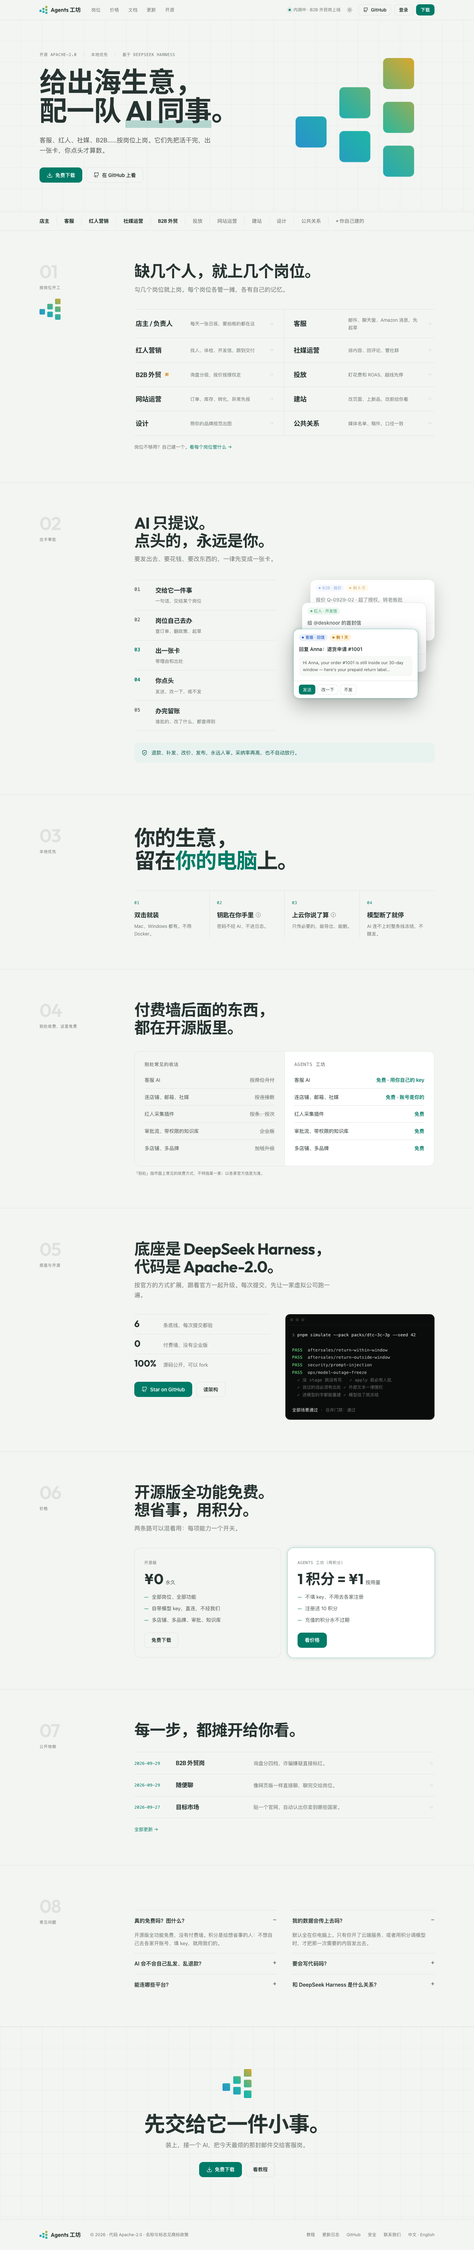
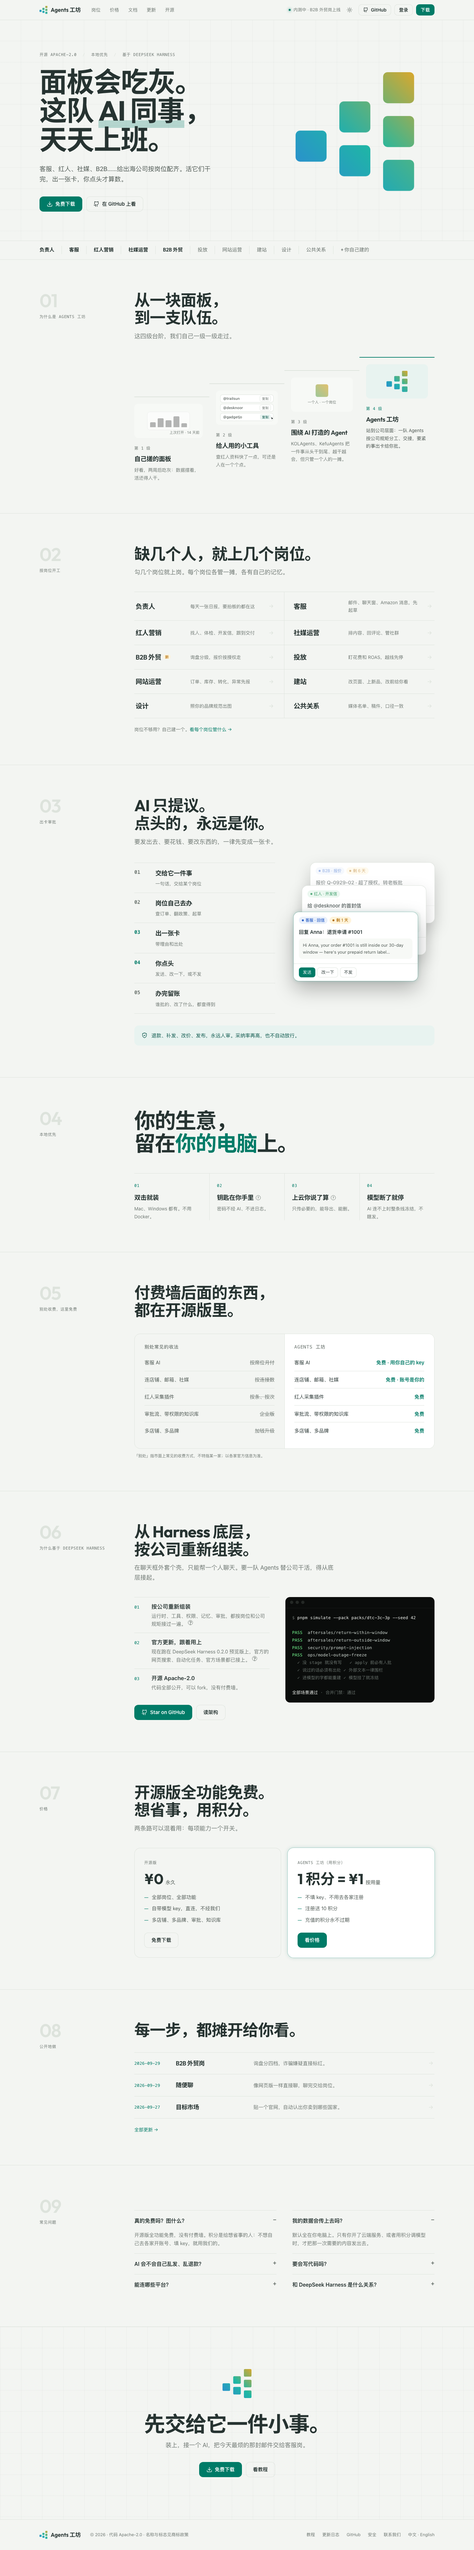
docs(design): WP193b 首页加「为什么」四级台阶、底座改写为为什么深入 Harness、首屏新标题、负责人改名 + 重出截图

diff --git a/docs/design/site/home-b.html b/docs/design/site/home-b.html
@@ -115,6 +115,38 @@ p{margin:0}
 @media (prefers-reduced-motion:reduce){.bm rect{animation:none!important;opacity:1!important;transform:none!important}}
 .sec-label .bm{display:block;margin-top:22px}
 
+/* ── 为什么：四级台阶（WP193b）：每级顶上一条踏步线，往右一级比一级高 ── */
+.bsteps{display:grid;grid-template-columns:repeat(4,minmax(0,1fr));gap:0;margin-top:48px;align-items:start}
+.bstep{padding:20px 20px 0 0;border-top:2px solid var(--line)}
+.bstep+.bstep{padding-left:20px}
+.bstep:nth-child(1){margin-top:120px}.bstep:nth-child(2){margin-top:80px}.bstep:nth-child(3){margin-top:40px}
+.bstep.sel{border-top-color:var(--brand)}
+.bstep.sel .mono{color:var(--brand)}
+.bstep h3{font-size:19px;font-weight:600;margin:6px 0 6px}
+.bstep p{font-size:14px;color:var(--muted)}
+.bstep.sel p{color:var(--body)}
+.reasons li{align-items:flex-start}
+.facts.reasons b{font:500 13px/1.6 var(--mono);color:var(--brand);min-width:36px}
+.reasons em{display:block;font-style:normal;font-weight:600;font-size:17px;color:var(--ink);margin-bottom:2px}
+/* 「为什么」台阶的小示意 */
+.ill{height:104px;border-radius:12px;background:var(--surface);display:grid;place-items:center;position:relative;overflow:hidden;margin-bottom:16px}
+.ill-dash .dash{width:62%;height:54px;display:flex;align-items:flex-end;gap:6px;padding:8px;border-radius:8px;background:var(--card);box-shadow:0 0 0 1px var(--line);filter:grayscale(1);opacity:.5}
+.ill-dash .dash i{flex:1;border-radius:3px 3px 0 0;background:var(--muted);display:block}
+.ill-dash .dust{position:absolute;bottom:8px;right:10px;font-size:11px;color:var(--muted)}
+.ill-tool{place-items:stretch;align-content:center;padding:0 14px;gap:6px}
+.trow{display:flex;align-items:center;justify-content:space-between;height:22px;padding:0 8px;border-radius:6px;background:var(--card);box-shadow:0 0 0 1px var(--line);font-size:11px;color:var(--muted);position:relative}
+.trow b{font-weight:500;color:var(--body)}
+.trow span{white-space:nowrap;font-size:10px;padding:0 6px;border-radius:4px;box-shadow:0 0 0 1px var(--line)}
+.trow span.hot{background:var(--tint);color:var(--brand-ink);box-shadow:none}
+.trow .cur{position:absolute;right:-4px;top:9px;width:14px;height:14px;fill:var(--ink);stroke:var(--card);stroke-width:1.5}
+.ill-agent{gap:6px;align-content:center}
+.ill-agent .solo{font-size:11px;color:var(--muted)}
+.ill-team{background:var(--tint)}
+/* 呼吸（= Agent 正在替你干活，docs/36 §12.2）：参数照抄 ws-bm-breathe，2.6s 一轮，0.94↔1、0.55↔1 */
+.bm-breathe rect{opacity:.55;animation:bm-breathe 2.6s ease-in-out infinite}
+@keyframes bm-breathe{0%,100%{opacity:.55;transform:scale(.94)}50%{opacity:1;transform:scale(1)}}
+@media (prefers-reduced-motion:reduce){.bm-breathe rect{animation:none!important;opacity:1!important;transform:none!important}}
+
 .strip{border-top:1px solid var(--line);position:relative;background:var(--paper)}
 .strip .wrap{display:flex;gap:0;overflow:hidden;height:56px;align-items:center}
 .strip span{font-family:var(--display);font-size:15px;color:var(--muted);padding:0 22px;border-left:1px solid var(--line);white-space:nowrap}
@@ -270,6 +302,13 @@ p{margin:0}
   .sec-label .bm{width:28px;height:28px;margin:0 0 0 auto}
   .h2{font-size:30px}
   .sub{font-size:15px}
+  .bsteps{grid-template-columns:1fr;margin-top:28px}
+  .bstep,.bstep+.bstep,.bstep:nth-child(n){margin-top:0;padding:16px 0;display:grid;grid-template-columns:92px 1fr;column-gap:14px}
+  .bstep .ill{grid-row:span 3;height:92px;margin:0}
+  .ill-tool{padding:0 8px}
+  .trow{height:18px;font-size:9px;padding:0 5px}
+  .trow b{overflow:hidden;text-overflow:ellipsis;white-space:nowrap;max-width:44px}
+  .trow .cur,.ill-agent .solo,.ill-dash .dust{display:none}
   .rolelist{grid-template-columns:1fr;margin-top:28px}
   .rolerow,.rolerow:nth-child(odd),.rolerow:nth-child(even){grid-template-columns:96px 1fr 16px;padding:14px 0;border-right:0}
   .rolerow h3{font-size:16px}
@@ -349,8 +388,8 @@ p{margin:0}
   <div class="wrap">
     <div>
       <div class="mono"><span>开源 Apache-2.0</span><span>本地优先</span><span>基于 DeepSeek Harness</span></div>
-      <h1>给出海生意，<br>配一队 <span class="u">AI 同事</span>。</h1>
-      <p class="lede">客服、红人、社媒、B2B……按岗位上岗。它们先把活干完，出一张卡，你点头才算数。</p>
+      <h1>面板会吃灰。<br>这队 <span class="u">AI 同事</span>，<br>天天上班。</h1>
+      <p class="lede">客服、红人、社媒、B2B……给出海公司按岗位配齐。活它们干完，出一张卡，你点头才算数。</p>
       <div class="cta-row">
         <a class="btn btn-primary" href="download.html"><svg class="ico"><use href="#i-download"/></svg>免费下载</a>
         <a class="btn btn-line" href="#"><svg class="ico"><use href="#i-github"/></svg>在 GitHub 上看</a>
@@ -361,17 +400,31 @@ p{margin:0}
     </div>
   </div>
   <div class="strip"><div class="wrap">
-    <span><b>店主</b></span><span><b>客服</b></span><span><b>红人营销</b></span><span><b>社媒运营</b></span><span><b>B2B 外贸</b></span><span>投放</span><span>网站运营</span><span>建站</span><span>设计</span><span>公共关系</span><span>+ 你自己建的</span>
+    <span><b>负责人</b></span><span><b>客服</b></span><span><b>红人营销</b></span><span><b>社媒运营</b></span><span><b>B2B 外贸</b></span><span>投放</span><span>网站运营</span><span>建站</span><span>设计</span><span>公共关系</span><span>+ 你自己建的</span>
   </div></div>
 </section>
 
+<section class="sec" id="s0"><div class="wrap">
+  <div class="sec-label"><div class="num">01</div><span class="mono">为什么是 Agents 工坊</span></div>
+  <div>
+    <h2 class="h2">从一块面板，<br>到一支队伍。</h2>
+    <p class="sub">这四级台阶，我们自己一级一级走过。</p>
+    <div class="bsteps">
+      <div class="bstep"><div class="ill ill-dash" aria-hidden="true"><div class="dash"><i style="height:40%"></i><i style="height:70%"></i><i style="height:55%"></i><i style="height:85%"></i><i style="height:30%"></i></div><span class="dust">上次打开 · 14 天前</span></div><span class="mono">第 1 级</span><h3>自己搓的面板</h3><p>好看，两周后吃灰：数据摆着，活还得人干。</p></div>
+      <div class="bstep"><div class="ill ill-tool" aria-hidden="true"><div class="trow"><b>@trailsun</b><span>复制</span></div><div class="trow"><b>@desknoor</b><span>复制</span></div><div class="trow"><b>@gadgetjo</b><span class="hot">复制</span><svg class="cur" viewBox="0 0 24 24"><path d="M5 3l14 8-6 2-3 6Z"/></svg></div></div><span class="mono">第 2 级</span><h3>给人用的小工具</h3><p>查红人资料快了一点，可还是人在一个个点。</p></div>
+      <div class="bstep"><div class="ill ill-agent" aria-hidden="true"><svg class="bm bm-breathe" width="40" height="40" viewBox="62 12 17 17" aria-hidden="true"><rect class="lead" x="62" y="12" width="17" height="17" rx="2.5" fill="url(#g6)" style="--i:0"/></svg><span class="solo">一个人 · 一个岗位</span></div><span class="mono">第 3 级</span><h3>围绕 AI 打造的 Agent</h3><p>KOLAgents、KefuAgents 把一件事从头干到尾、越干越会，但只管一个人的一摊。</p></div>
+      <div class="bstep sel"><div class="ill ill-team" aria-hidden="true"><svg class="bm bm-split" width="64" height="64" viewBox="14 12 65 65" aria-hidden="true"><rect x="14" y="44" width="17" height="17" rx="2.5" fill="url(#g1)" style="--i:0;--dx:48px;--dy:-32px"/><rect x="38" y="52" width="17" height="17" rx="2.5" fill="url(#g2)" style="--i:1;--dx:24px;--dy:-40px"/><rect x="38" y="28" width="17" height="17" rx="2.5" fill="url(#g3)" style="--i:2;--dx:24px;--dy:-16px"/><rect x="62" y="60" width="17" height="17" rx="2.5" fill="url(#g4)" style="--i:3;--dx:0px;--dy:-48px"/><rect x="62" y="36" width="17" height="17" rx="2.5" fill="url(#g5)" style="--i:4;--dx:0px;--dy:-24px"/><rect class="lead" x="62" y="12" width="17" height="17" rx="2.5" fill="url(#g6)" style="--i:5"/></svg></div><span class="mono">第 4 级</span><h3>Agents 工坊</h3><p>站到公司层面：一队 Agents 按公司规矩分工、交接，要紧的事出卡给你批。</p></div>
+    </div>
+  </div>
+</div></section>
+
 <section class="sec" id="s1"><div class="wrap">
-  <div class="sec-label"><div class="num">01</div><span class="mono">按岗位开工</span><svg class="bm bm-split " width="64" height="64" viewBox="14 12 65 65" aria-hidden="true"><rect x="14" y="44" width="17" height="17" rx="2.5" fill="url(#g1)" style="--i:0;--dx:48px;--dy:-32px"/><rect x="38" y="52" width="17" height="17" rx="2.5" fill="url(#g2)" style="--i:1;--dx:24px;--dy:-40px"/><rect x="38" y="28" width="17" height="17" rx="2.5" fill="url(#g3)" style="--i:2;--dx:24px;--dy:-16px"/><rect x="62" y="60" width="17" height="17" rx="2.5" fill="url(#g4)" style="--i:3;--dx:0px;--dy:-48px"/><rect x="62" y="36" width="17" height="17" rx="2.5" fill="url(#g5)" style="--i:4;--dx:0px;--dy:-24px"/><rect class="lead" x="62" y="12" width="17" height="17" rx="2.5" fill="url(#g6)" style="--i:5"/></svg></div>
+  <div class="sec-label"><div class="num">02</div><span class="mono">按岗位开工</span></div>
   <div>
     <h2 class="h2">缺几个人，就上几个岗位。</h2>
     <p class="sub">勾几个岗位就上岗。每个岗位各管一摊，各有自己的记忆。</p>
     <div class="rolelist">
-      <a class="rolerow" href="#"><h3>店主 / 负责人</h3><p>每天一张日报，要拍板的都在这</p><svg class="ico ar"><use href="#i-arrow"/></svg></a>
+      <a class="rolerow" href="#"><h3>负责人</h3><p>每天一张日报，要拍板的都在这</p><svg class="ico ar"><use href="#i-arrow"/></svg></a>
       <a class="rolerow" href="#"><h3>客服</h3><p>邮件、聊天窗、Amazon 消息，先起草</p><svg class="ico ar"><use href="#i-arrow"/></svg></a>
       <a class="rolerow" href="#"><h3>红人营销</h3><p>找人、体检、开发信，跟到交付</p><svg class="ico ar"><use href="#i-arrow"/></svg></a>
       <a class="rolerow" href="#"><h3>社媒运营</h3><p>排内容、回评论、管社群</p><svg class="ico ar"><use href="#i-arrow"/></svg></a>
@@ -387,7 +440,7 @@ p{margin:0}
 </div></section>
 
 <section class="sec" id="s2"><div class="wrap">
-  <div class="sec-label"><div class="num">02</div><span class="mono">出卡审批</span></div>
+  <div class="sec-label"><div class="num">03</div><span class="mono">出卡审批</span></div>
   <div>
     <h2 class="h2">AI 只提议。<br>点头的，永远是你。</h2>
     <p class="sub">要发出去、要花钱、要改东西的，一律先变成一张卡。</p>
@@ -410,7 +463,7 @@ p{margin:0}
 </div></section>
 
 <section class="sec" id="s3"><div class="wrap">
-  <div class="sec-label"><div class="num">03</div><span class="mono">本地优先</span></div>
+  <div class="sec-label"><div class="num">04</div><span class="mono">本地优先</span></div>
   <div>
     <p class="big-quote">你的生意，<br>留在<em>你的电脑</em>上。</p>
     <div class="four">
@@ -423,7 +476,7 @@ p{margin:0}
 </div></section>
 
 <section class="sec" id="s4"><div class="wrap">
-  <div class="sec-label"><div class="num">04</div><span class="mono">别处收费，这里免费</span></div>
+  <div class="sec-label"><div class="num">05</div><span class="mono">别处收费，这里免费</span></div>
   <div>
     <h2 class="h2">付费墙后面的东西，<br>都在开源版里。</h2>
     <div class="vs">
@@ -447,16 +500,16 @@ p{margin:0}
 </div></section>
 
 <section class="sec" id="s5"><div class="wrap">
-  <div class="sec-label"><div class="num">05</div><span class="mono">底座与开源</span></div>
+  <div class="sec-label"><div class="num">06</div><span class="mono">为什么基于 DeepSeek Harness</span></div>
   <div>
-    <h2 class="h2">底座是 DeepSeek Harness，<br>代码是 Apache-2.0。</h2>
-    <p class="sub">按官方的方式扩展，跟着官方一起升级。每次提交，先让一家虚拟公司跑一遍。</p>
+    <h2 class="h2">从 Harness 底层，<br>按公司重新组装。</h2>
+    <p class="sub">在聊天框外套个壳，只能帮一个人聊天。要一队 Agents 替公司干活，得从底层接起。</p>
     <div class="base-grid">
       <div>
-        <ul class="facts">
-          <li><b>6</b><span>条底线，每次提交都验</span></li>
-          <li><b>0</b><span>付费墙，没有企业版</span></li>
-          <li><b>100%</b><span>源码公开，可以 fork</span></li>
+        <ul class="facts reasons">
+          <li><b>01</b><span><em>按公司重新组装</em>运行时、工具、权限、记忆、审批，都按岗位和公司规矩接过一遍。<span class="hint" data-hint="每个岗位、每条职责有自己的上下文和记忆；谁能动什么按岗位授权；要发出去、要花钱的先进审批队列，办完留账。19 份接口契约都在仓库里。">?</span></span></li>
+          <li><b>02</b><span><em>官方更新，跟着用上</em>现在跑在 DeepSeek Harness 0.2.0 预览版上，官方的网页搜索、自动化任务、官方场景都已接上。<span class="hint" data-hint="版本锁在 0.2.0-rc.1。每次升级先过适配层测试和模拟回路，全绿才合并。">?</span></span></li>
+          <li><b>03</b><span><em>开源 Apache-2.0</em>代码全部公开，可以 fork，没有付费墙。</span></li>
         </ul>
         <div class="cta-row" style="margin-top:26px"><a class="btn btn-primary" href="#"><svg class="ico"><use href="#i-github"/></svg>Star on GitHub</a><a class="btn btn-line" href="#">读架构</a></div>
       </div>
@@ -477,7 +530,7 @@ p{margin:0}
 </div></section>
 
 <section class="sec" id="s6"><div class="wrap">
-  <div class="sec-label"><div class="num">06</div><span class="mono">价格</span></div>
+  <div class="sec-label"><div class="num">07</div><span class="mono">价格</span></div>
   <div>
     <h2 class="h2">开源版全功能免费。<br>想省事，用积分。</h2>
     <p class="sub">两条路可以混着用：每项能力一个开关。</p>
@@ -489,7 +542,7 @@ p{margin:0}
 </div></section>
 
 <section class="sec" id="s7"><div class="wrap">
-  <div class="sec-label"><div class="num">07</div><span class="mono">公开地做</span></div>
+  <div class="sec-label"><div class="num">08</div><span class="mono">公开地做</span></div>
   <div>
     <h2 class="h2">每一步，都摊开给你看。</h2>
     <div class="logs">
@@ -502,7 +555,7 @@ p{margin:0}
 </div></section>
 
 <section class="sec" id="s8"><div class="wrap">
-  <div class="sec-label"><div class="num">08</div><span class="mono">常见问题</span></div>
+  <div class="sec-label"><div class="num">09</div><span class="mono">常见问题</span></div>
   <div class="faq">
     <details open><summary>真的免费吗？图什么？</summary><p>开源版全功能免费，没有付费墙。积分是给想省事的人：不想自己去各家开账号、填 key，就用我们的。</p></details>
     <details open><summary>我的数据会传上去吗？</summary><p>默认全在你电脑上。只有你开了云端服务、或者用积分调模型时，才把那一次需要的内容发出去。</p></details>

diff --git a/docs/design/site/home.html b/docs/design/site/home.html
@@ -193,6 +193,12 @@ section{scroll-margin-top:80px}
 .base h2{color:var(--term-ink);font-size:38px}
 .base .eyebrow{color:var(--term-accent)}
 .base .sub{color:var(--term-muted)}
+.whys{list-style:none;margin:28px 0 32px;padding:0;counter-reset:w;display:grid;gap:14px}
+.whys li{display:grid;grid-template-columns:30px 1fr;column-gap:12px;counter-increment:w}
+.whys li::before{content:counter(w);grid-row:span 2;width:26px;height:26px;border-radius:8px;display:grid;place-items:center;font:600 13px var(--display);color:#0E100F;background:#76FB91}
+.whys b{color:var(--term-ink);font-weight:600;font-size:16px}
+.whys span{font-size:14px;color:var(--term-muted)}
+.base .hint{border-color:var(--term-muted);color:var(--term-muted)}
 .stats{display:flex;gap:36px;margin:30px 0 32px}
 .stat b{display:block;font:700 32px/1.1 var(--display);color:var(--term-ink)}
 .stat span{font-size:13px}
@@ -269,6 +275,36 @@ section{scroll-margin-top:80px}
 .hero-mark{margin-bottom:22px}
 .roles-mark{margin-bottom:18px}
 
+/* ── 为什么：四级台阶（WP193b） ── */
+.why{border-top:1px solid var(--line)}
+.stairs{display:grid;grid-template-columns:repeat(4,minmax(0,1fr));gap:18px;margin-top:52px;align-items:start;text-align:left}
+.stair{background:var(--card);border-radius:16px;box-shadow:var(--shadow);padding:16px 18px 20px}
+.stair:nth-child(1){margin-top:108px}.stair:nth-child(2){margin-top:72px}.stair:nth-child(3){margin-top:36px}
+.stair.sel{box-shadow:var(--glow),var(--shadow-hover)}
+.stair .lv{font:600 12px var(--display);letter-spacing:.06em;color:var(--muted)}
+.stair.sel .lv{color:var(--brand)}
+.stair h3{font-size:17px;font-weight:600;margin:4px 0 6px}
+.stair p{font-size:14px;line-height:1.6;color:var(--muted)}
+.stair.sel p{color:var(--body)}
+/* 「为什么」台阶的小示意 */
+.ill{height:104px;border-radius:12px;background:var(--surface);display:grid;place-items:center;position:relative;overflow:hidden;margin-bottom:16px}
+.ill-dash .dash{width:62%;height:54px;display:flex;align-items:flex-end;gap:6px;padding:8px;border-radius:8px;background:var(--card);box-shadow:0 0 0 1px var(--line);filter:grayscale(1);opacity:.5}
+.ill-dash .dash i{flex:1;border-radius:3px 3px 0 0;background:var(--muted);display:block}
+.ill-dash .dust{position:absolute;bottom:8px;right:10px;font-size:11px;color:var(--muted)}
+.ill-tool{place-items:stretch;align-content:center;padding:0 14px;gap:6px}
+.trow{display:flex;align-items:center;justify-content:space-between;height:22px;padding:0 8px;border-radius:6px;background:var(--card);box-shadow:0 0 0 1px var(--line);font-size:11px;color:var(--muted);position:relative}
+.trow b{font-weight:500;color:var(--body)}
+.trow span{white-space:nowrap;font-size:10px;padding:0 6px;border-radius:4px;box-shadow:0 0 0 1px var(--line)}
+.trow span.hot{background:var(--tint);color:var(--brand-ink);box-shadow:none}
+.trow .cur{position:absolute;right:-4px;top:9px;width:14px;height:14px;fill:var(--ink);stroke:var(--card);stroke-width:1.5}
+.ill-agent{gap:6px;align-content:center}
+.ill-agent .solo{font-size:11px;color:var(--muted)}
+.ill-team{background:var(--tint)}
+/* 呼吸（= Agent 正在替你干活，docs/36 §12.2）：参数照抄 ws-bm-breathe，2.6s 一轮，0.94↔1、0.55↔1 */
+.bm-breathe rect{opacity:.55;animation:bm-breathe 2.6s ease-in-out infinite}
+@keyframes bm-breathe{0%,100%{opacity:.55;transform:scale(.94)}50%{opacity:1;transform:scale(1)}}
+@media (prefers-reduced-motion:reduce){.bm-breathe rect{animation:none!important;opacity:1!important;transform:none!important}}
+
 /* 手机 */
 @media (max-width:900px){
   .wrap{padding:0 20px}
@@ -292,6 +328,14 @@ section{scroll-margin-top:80px}
   .role-ic{width:32px;height:32px;margin-bottom:10px}
   .role h3{font-size:15px}
   .role p{font-size:13px}
+  .stairs{grid-template-columns:1fr;gap:12px;margin-top:32px}
+  .stair,.stair:nth-child(n){margin-top:0;display:grid;grid-template-columns:92px 1fr;column-gap:14px;padding:14px}
+  .stair .ill{grid-row:span 3;height:92px;margin:0}
+  .ill-tool{padding:0 8px}
+  .trow{height:18px;font-size:9px;padding:0 5px}
+  .trow b{overflow:hidden;text-overflow:ellipsis;white-space:nowrap;max-width:44px}
+  .trow .cur,.ill-agent .solo{display:none}
+  .ill-dash .dust{display:none}
   .rail{grid-template-columns:1fr;gap:18px;margin:36px 0 32px}
   .rail::before{left:17px;right:auto;top:18px;bottom:18px;width:2px;height:auto}
   .step{display:grid;grid-template-columns:36px 1fr;gap:4px 14px;text-align:left;padding:0}
@@ -379,8 +423,8 @@ section{scroll-margin-top:80px}
     <div>
       <div class="hero-mark"><svg class="bm bm-assemble " width="56" height="56" viewBox="14 12 65 65" aria-hidden="true"><rect x="14" y="44" width="17" height="17" rx="2.5" fill="url(#g1)" style="--d:0ms;--i:0"/><rect x="38" y="52" width="17" height="17" rx="2.5" fill="url(#g2)" style="--d:100ms;--i:1"/><rect x="38" y="28" width="17" height="17" rx="2.5" fill="url(#g3)" style="--d:160ms;--i:2"/><rect x="62" y="60" width="17" height="17" rx="2.5" fill="url(#g4)" style="--d:240ms;--i:3"/><rect x="62" y="36" width="17" height="17" rx="2.5" fill="url(#g5)" style="--d:300ms;--i:4"/><rect class="lead" x="62" y="12" width="17" height="17" rx="2.5" fill="url(#g6)" style="--i:5"/></svg></div>
       <span class="pill"><i></i>开源 · Apache-2.0 · 跑在你自己的电脑上</span>
-      <h1>给出海生意，<br>配一队 <em>AI 同事</em>。</h1>
-      <p class="lede">客服、红人、社媒、B2B……按岗位上岗。它们先把活干完，出一张卡，你点头才算数。</p>
+      <h1>面板会吃灰。<br>这队 <em>AI 同事</em>，<br>天天上班。</h1>
+      <p class="lede">客服、红人、社媒、B2B……给出海公司按岗位配齐。活它们干完，出一张卡，你点头才算数。</p>
       <div class="cta-row">
         <a class="btn btn-primary" href="download.html"><svg class="ico"><use href="#i-download"/></svg>免费下载</a>
         <a class="btn btn-ghost" href="#"><svg class="ico"><use href="#i-github"/></svg>在 GitHub 上看</a>
@@ -413,15 +457,29 @@ section{scroll-margin-top:80px}
   </div>
 </section>
 
+<!-- 1b 为什么（WP193b） -->
+<section class="sec why" id="why">
+  <div class="wrap center">
+    <div class="eyebrow">为什么是 Agents 工坊</div>
+    <h2 class="h2">从一块面板，到一支队伍。</h2>
+    <p class="sub">这四级台阶，我们自己一级一级走过。</p>
+    <div class="stairs">
+      <div class="stair"><div class="ill ill-dash" aria-hidden="true"><div class="dash"><i style="height:40%"></i><i style="height:70%"></i><i style="height:55%"></i><i style="height:85%"></i><i style="height:30%"></i></div><span class="dust">上次打开 · 14 天前</span></div><span class="lv">第 1 级</span><h3>自己搓的面板</h3><p>好看，两周后吃灰：数据摆着，活还得人干。</p></div>
+      <div class="stair"><div class="ill ill-tool" aria-hidden="true"><div class="trow"><b>@trailsun</b><span>复制</span></div><div class="trow"><b>@desknoor</b><span>复制</span></div><div class="trow"><b>@gadgetjo</b><span class="hot">复制</span><svg class="cur" viewBox="0 0 24 24"><path d="M5 3l14 8-6 2-3 6Z"/></svg></div></div><span class="lv">第 2 级</span><h3>给人用的小工具</h3><p>查红人资料快了一点，可还是人在一个个点。</p></div>
+      <div class="stair"><div class="ill ill-agent" aria-hidden="true"><svg class="bm bm-breathe" width="40" height="40" viewBox="62 12 17 17" aria-hidden="true"><rect class="lead" x="62" y="12" width="17" height="17" rx="2.5" fill="url(#g6)" style="--i:0"/></svg><span class="solo">一个人 · 一个岗位</span></div><span class="lv">第 3 级</span><h3>围绕 AI 打造的 Agent</h3><p>KOLAgents、KefuAgents 把一件事从头干到尾、越干越会，但只管一个人的一摊。</p></div>
+      <div class="stair sel"><div class="ill ill-team" aria-hidden="true"><svg class="bm bm-split" width="64" height="64" viewBox="14 12 65 65" aria-hidden="true"><rect x="14" y="44" width="17" height="17" rx="2.5" fill="url(#g1)" style="--i:0;--dx:48px;--dy:-32px"/><rect x="38" y="52" width="17" height="17" rx="2.5" fill="url(#g2)" style="--i:1;--dx:24px;--dy:-40px"/><rect x="38" y="28" width="17" height="17" rx="2.5" fill="url(#g3)" style="--i:2;--dx:24px;--dy:-16px"/><rect x="62" y="60" width="17" height="17" rx="2.5" fill="url(#g4)" style="--i:3;--dx:0px;--dy:-48px"/><rect x="62" y="36" width="17" height="17" rx="2.5" fill="url(#g5)" style="--i:4;--dx:0px;--dy:-24px"/><rect class="lead" x="62" y="12" width="17" height="17" rx="2.5" fill="url(#g6)" style="--i:5"/></svg></div><span class="lv">第 4 级</span><h3>Agents 工坊</h3><p>站到公司层面：一队 Agents 按公司规矩分工、交接，要紧的事出卡给你批。</p></div>
+    </div>
+  </div>
+</section>
+
 <!-- 2 岗位 -->
 <section class="sec sec-alt" id="roles">
   <div class="wrap center">
-    <svg class="bm bm-split roles-mark" width="56" height="56" viewBox="14 12 65 65" aria-hidden="true"><rect x="14" y="44" width="17" height="17" rx="2.5" fill="url(#g1)" style="--i:0;--dx:48px;--dy:-32px"/><rect x="38" y="52" width="17" height="17" rx="2.5" fill="url(#g2)" style="--i:1;--dx:24px;--dy:-40px"/><rect x="38" y="28" width="17" height="17" rx="2.5" fill="url(#g3)" style="--i:2;--dx:24px;--dy:-16px"/><rect x="62" y="60" width="17" height="17" rx="2.5" fill="url(#g4)" style="--i:3;--dx:0px;--dy:-48px"/><rect x="62" y="36" width="17" height="17" rx="2.5" fill="url(#g5)" style="--i:4;--dx:0px;--dy:-24px"/><rect class="lead" x="62" y="12" width="17" height="17" rx="2.5" fill="url(#g6)" style="--i:5"/></svg>
     <div class="eyebrow">按岗位开工</div>
     <h2 class="h2">缺几个人，就上几个岗位。</h2>
     <p class="sub">勾几个岗位就上岗。每个岗位各管一摊，各有自己的记忆。</p>
     <div class="roles">
-      <a class="role" href="#"><div class="role-ic"><svg class="ico"><use href="#i-crown"/></svg></div><h3>店主 / 负责人</h3><p>每天一张日报，要拍板的都在这</p></a>
+      <a class="role" href="#"><div class="role-ic"><svg class="ico"><use href="#i-crown"/></svg></div><h3>负责人</h3><p>每天一张日报，要拍板的都在这</p></a>
       <a class="role" href="#"><div class="role-ic"><svg class="ico"><use href="#i-headset"/></svg></div><h3>客服</h3><p>邮件、聊天窗、Amazon 消息，先起草</p></a>
       <a class="role" href="#"><div class="role-ic"><svg class="ico"><use href="#i-star"/></svg></div><h3>红人营销</h3><p>找人、体检、开发信，跟到交付</p></a>
       <a class="role" href="#"><div class="role-ic"><svg class="ico"><use href="#i-share"/></svg></div><h3>社媒运营</h3><p>排内容、回评论、管社群</p></a>
@@ -505,18 +563,18 @@ section{scroll-margin-top:80px}
   </div>
 </section>
 
-<!-- 6 底座 -->
+<!-- 6 底座（WP193b 改写：为什么深入 Harness 底层） -->
 <section class="sec base" id="base">
   <div class="wrap">
     <div>
-      <div class="eyebrow">底座</div>
-      <h2 class="h2">底座是 DeepSeek Harness，<br>代码是 Apache-2.0。</h2>
-      <p class="sub">按官方的方式扩展，跟着官方一起升级。每次提交，先让一家虚拟公司跑一遍。</p>
-      <div class="stats">
-        <div class="stat"><b>6</b><span>条底线，每次提交都验</span></div>
-        <div class="stat"><b>0</b><span>付费墙</span></div>
-        <div class="stat"><b>100%</b><span>源码公开</span></div>
-      </div>
+      <div class="eyebrow">为什么基于 DeepSeek Harness</div>
+      <h2 class="h2">从 Harness 底层，<br>按公司重新组装。</h2>
+      <p class="sub">在聊天框外套个壳，只能帮一个人聊天。要一队 Agents 替公司干活，得从底层接起。</p>
+      <ol class="whys">
+        <li><b>按公司重新组装</b><span>运行时、工具、权限、记忆、审批，都按岗位和公司规矩接过一遍。<span class="hint" data-hint="每个岗位、每条职责有自己的上下文和记忆；谁能动什么按岗位授权；要发出去、要花钱的先进审批队列，办完留账。19 份接口契约都在仓库里。">?</span></span></li>
+        <li><b>官方更新，跟着用上</b><span>现在跑在 DeepSeek Harness 0.2.0 预览版上，官方的网页搜索、自动化任务、官方场景都已接上。<span class="hint" data-hint="版本锁在 0.2.0-rc.1。每次升级先过适配层测试和模拟回路，全绿才合并。">?</span></span></li>
+        <li><b>开源 Apache-2.0</b><span>代码全部公开，可以 fork，没有付费墙。</span></li>
+      </ol>
       <div class="cta-row" style="margin:0">
         <a class="btn btn-primary" href="#"><svg class="ico"><use href="#i-github"/></svg>Star on GitHub</a>
         <a class="btn btn-ghost" href="#">读架构</a>
